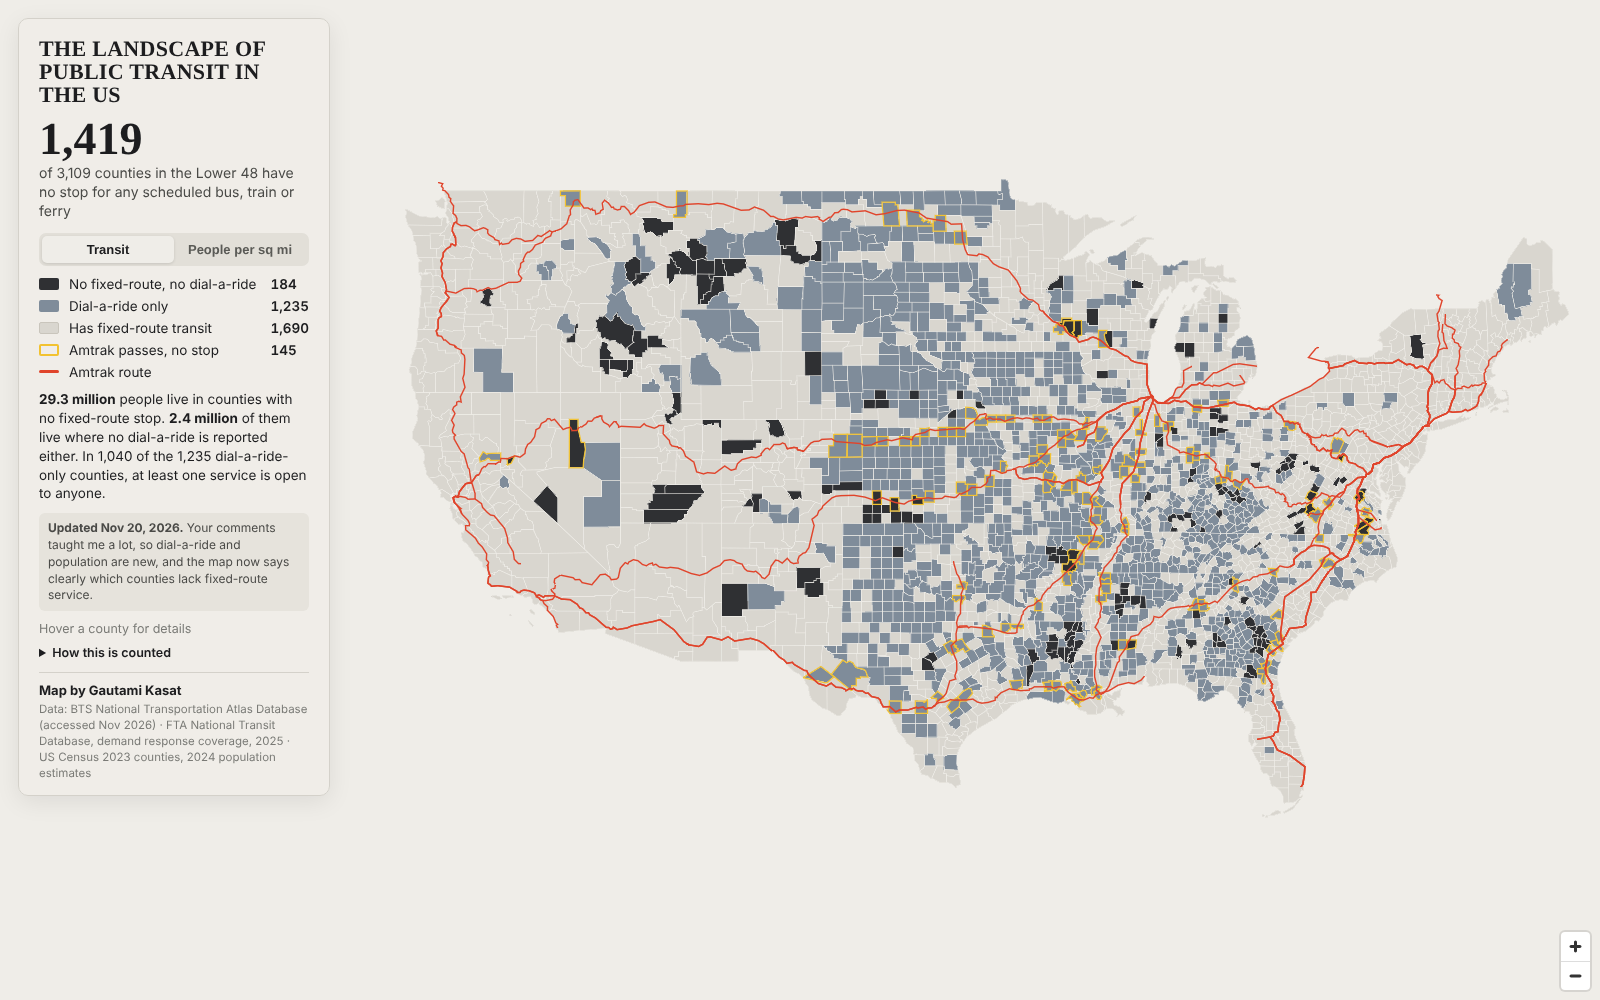
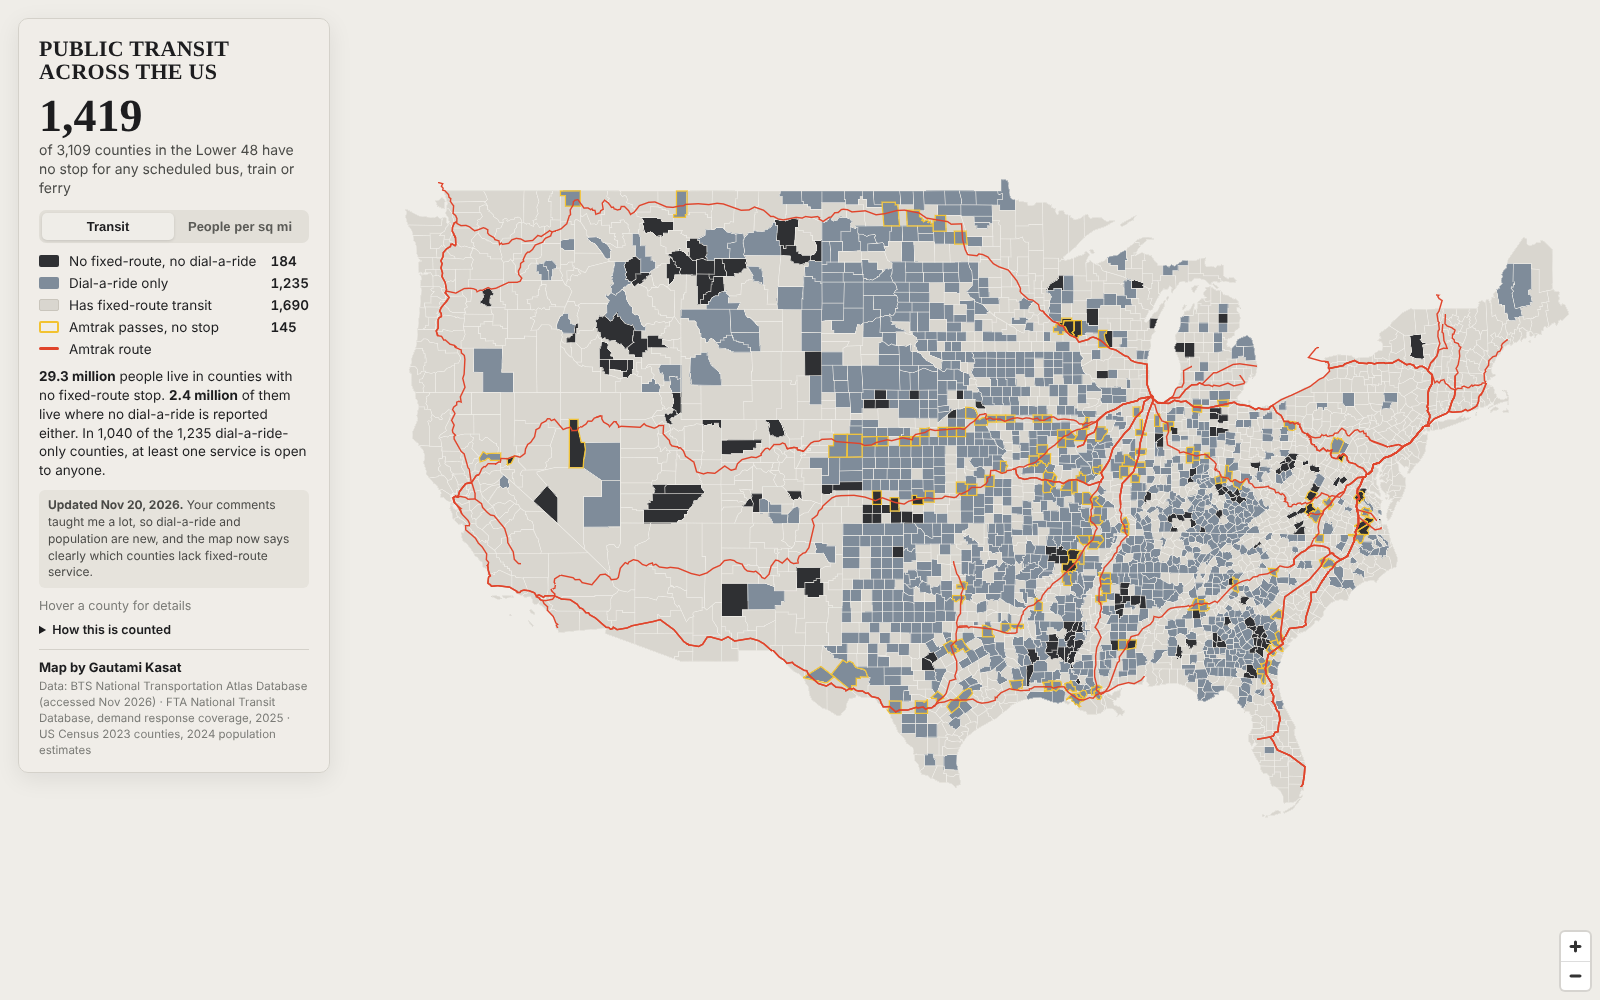
Day 18: retitle to Public Transit Across the US
Claude-Session: https://claude.ai/code/session_016f3vJy45cJfbachEju2CvB

Changed region(s): [[0.0, 0.031, 0.1875, 0.775]]

diff --git a/output/day18_null-road-only-counties.html b/output/day18_null-road-only-counties.html
@@ -1,6 +1,6 @@
 <!DOCTYPE html><html lang="en"><head><meta charset="utf-8">
 <meta name="viewport" content="width=device-width, initial-scale=1">
-<title>The Landscape of Public Transit in the US · Gautami Kasat</title>
+<title>Public Transit Across the US · Gautami Kasat</title>
 <link href="https://unpkg.com/maplibre-gl@4.7.1/dist/maplibre-gl.css" rel="stylesheet">
 <script src="https://unpkg.com/maplibre-gl@4.7.1/dist/maplibre-gl.js"></script>
 <link href="https://fonts.googleapis.com/css2?family=Zilla+Slab:wght@700&family=Barlow:wght@400;600&display=swap" rel="stylesheet">
@@ -46,7 +46,7 @@
 </style></head><body>
 <div id="map"></div>
 <div class="panel">
-  <h1>The Landscape of Public Transit in the US</h1>
+  <h1>Public Transit Across the US</h1>
   <div class="big">1,419</div>
   <div class="bigl">of 3,109 counties in the Lower 48 have no stop for any scheduled bus, train or ferry</div>
   <div class="tabs"><button id="t-access" class="on">Transit</button><button id="t-density">People per sq mi</button></div>

diff --git a/output/index.html b/output/index.html
@@ -102,7 +102,7 @@
       <a class="card city" data-study="" href="day18_null-road-only-counties.html">
         <img src="../png_thumbnail/day18_null-road-only-counties.png" alt="">
         <div class="chip">Day 18 · NULL · interactive</div>
-        <h2>The Landscape of Public Transit in the US</h2>
+        <h2>Public Transit Across the US</h2>
         <p>1,419 US counties with no fixed-route bus, train or ferry stop; 1,235 have dial-a-ride, 184 report neither</p>
         <div class="meta">City Senses · Python + MapLibre</div>
       </a>

diff --git a/captions/day18_null-road-only-counties.md b/captions/day18_null-road-only-counties.md
@@ -2,7 +2,7 @@
 
 | | |
 |---|---|
-| Title | The Landscape of Public Transit in the US (revised Nov 20, 2026; first posted as Counties Without Public Transit) |
+| Title | Public Transit Across the US (revised Nov 20, 2026; first posted as Counties Without Public Transit) |
 | Series | City Senses |
 | Study | (none yet) |
 | Interactive | yes |
